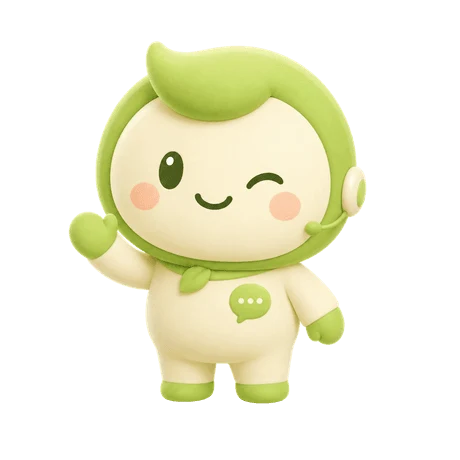
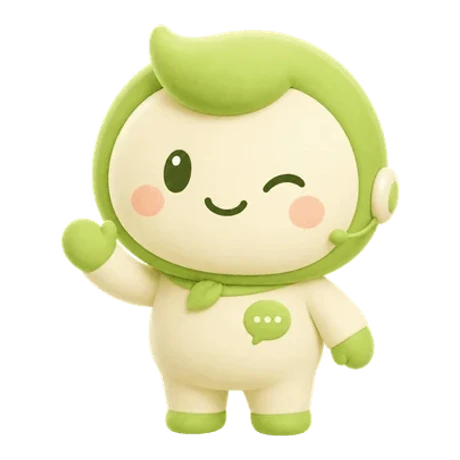
홈/매뉴얼 디테일: 윙크 흰플래시 제거·말풍선 스펙·마스코트 확대, 매뉴얼 밝게
- 홈: 윙크를 하단 고정+base만 페이드(전환 중 흰 페이지 비침 제거), 마스코트 트림해 프레임 꽉 차게 확대
- 말풍선 텍스트: #8C937D·11px·400·lh12·ls0.07 (font-airo 제거)
- 매뉴얼: 사진 위 어두운→흰색 그라데이션(밝게), 라벨 어둡게+뱃지 대비 조정

Changed region(s): [[0.1217, 0.0304, 0.8826, 0.9739], [0.3043, 0.3043, 0.4261, 0.487], [0.2739, 0.3957, 0.3043, 0.4261]]

diff --git a/src/routes/Home.tsx b/src/routes/Home.tsx
@@ -297,7 +297,7 @@ export default function Home() {
               <ellipse cx="59.5907" cy="29.2696" rx="58.5907" ry="29.2696" fill="white" />
               <path d="M108.6 63.2681L83.3929 46.8926L105.606 35.2325L108.6 63.2681Z" fill="white" />
             </svg>
-            <span className="hero-bubble-text font-airo">
+            <span className="hero-bubble-text">
               챗봇 '아이로'에게
               <br />
               물어보세요!
@@ -309,8 +309,9 @@ export default function Home() {
             onClick={() => navigate('/ai-chat')}
             aria-label="AI 챗봇 아이로에게 물어보기"
           >
+            {/* 윙크를 아래층에 항상 표시하고 base만 페이드 → 전환 중 흰 페이지가 비치는 현상 제거 */}
+            <img className="hero-mascot-wink" src="/assets/airo-home-wink.webp" alt="" />
             <img className="hero-mascot-base" src="/assets/airo-home.webp" alt="아이로" style={{ opacity: winking ? 0 : 1 }} />
-            <img className="hero-mascot-wink" src="/assets/airo-home-wink.webp" alt="" style={{ opacity: winking ? 1 : 0 }} />
           </button>
         </div>
 

diff --git a/src/routes/manual.css b/src/routes/manual.css
@@ -80,22 +80,28 @@
   background-position: center;
   border: none;
 }
+/* 사진 위에 흰색 그라데이션 → 밝고 부드럽게(하단은 라벨 위해 더 밝게) */
 .manual-card.has-image::before {
   content: '';
   position: absolute;
   inset: 0;
-  background: linear-gradient(180deg, rgba(0, 0, 0, 0) 42%, rgba(0, 0, 0, 0.55) 100%);
+  background: linear-gradient(
+    180deg,
+    rgba(255, 255, 255, 0.28) 0%,
+    rgba(255, 255, 255, 0.46) 52%,
+    rgba(255, 255, 255, 0.82) 100%
+  );
 }
 .manual-card.has-image .manual-icon {
-  background: rgba(255, 255, 255, 0.25);
-  backdrop-filter: blur(4px);
-  -webkit-backdrop-filter: blur(4px);
+  background: rgba(0, 0, 0, 0.2);
+  backdrop-filter: blur(2px);
+  -webkit-backdrop-filter: blur(2px);
   box-shadow: none;
 }
 .manual-card.has-image .manual-icon svg {
   filter: drop-shadow(0 1px 2px rgba(0, 0, 0, 0.35));
 }
 .manual-card.has-image .manual-card-label {
-  color: #fff;
-  text-shadow: 0 1px 4px rgba(0, 0, 0, 0.55);
+  color: #1f2937;
+  text-shadow: 0 1px 2px rgba(255, 255, 255, 0.7);
 }

diff --git a/src/routes/home.css b/src/routes/home.css
@@ -119,15 +119,15 @@
 }
 .hero-bubble-text {
   position: absolute;
-  left: 2px;
-  top: 13px;
-  width: 114px;
+  left: 0;
+  top: 16px;
+  width: 122px;
   text-align: center;
-  font-size: 13px;
-  font-weight: 700;
-  color: #567411;
-  line-height: 1.35;
-  letter-spacing: -0.2px;
+  font-size: 11px;
+  font-weight: 400;
+  color: #8c937d;
+  line-height: 12px;
+  letter-spacing: 0.07px;
 }
 
 /* 검색창 */
